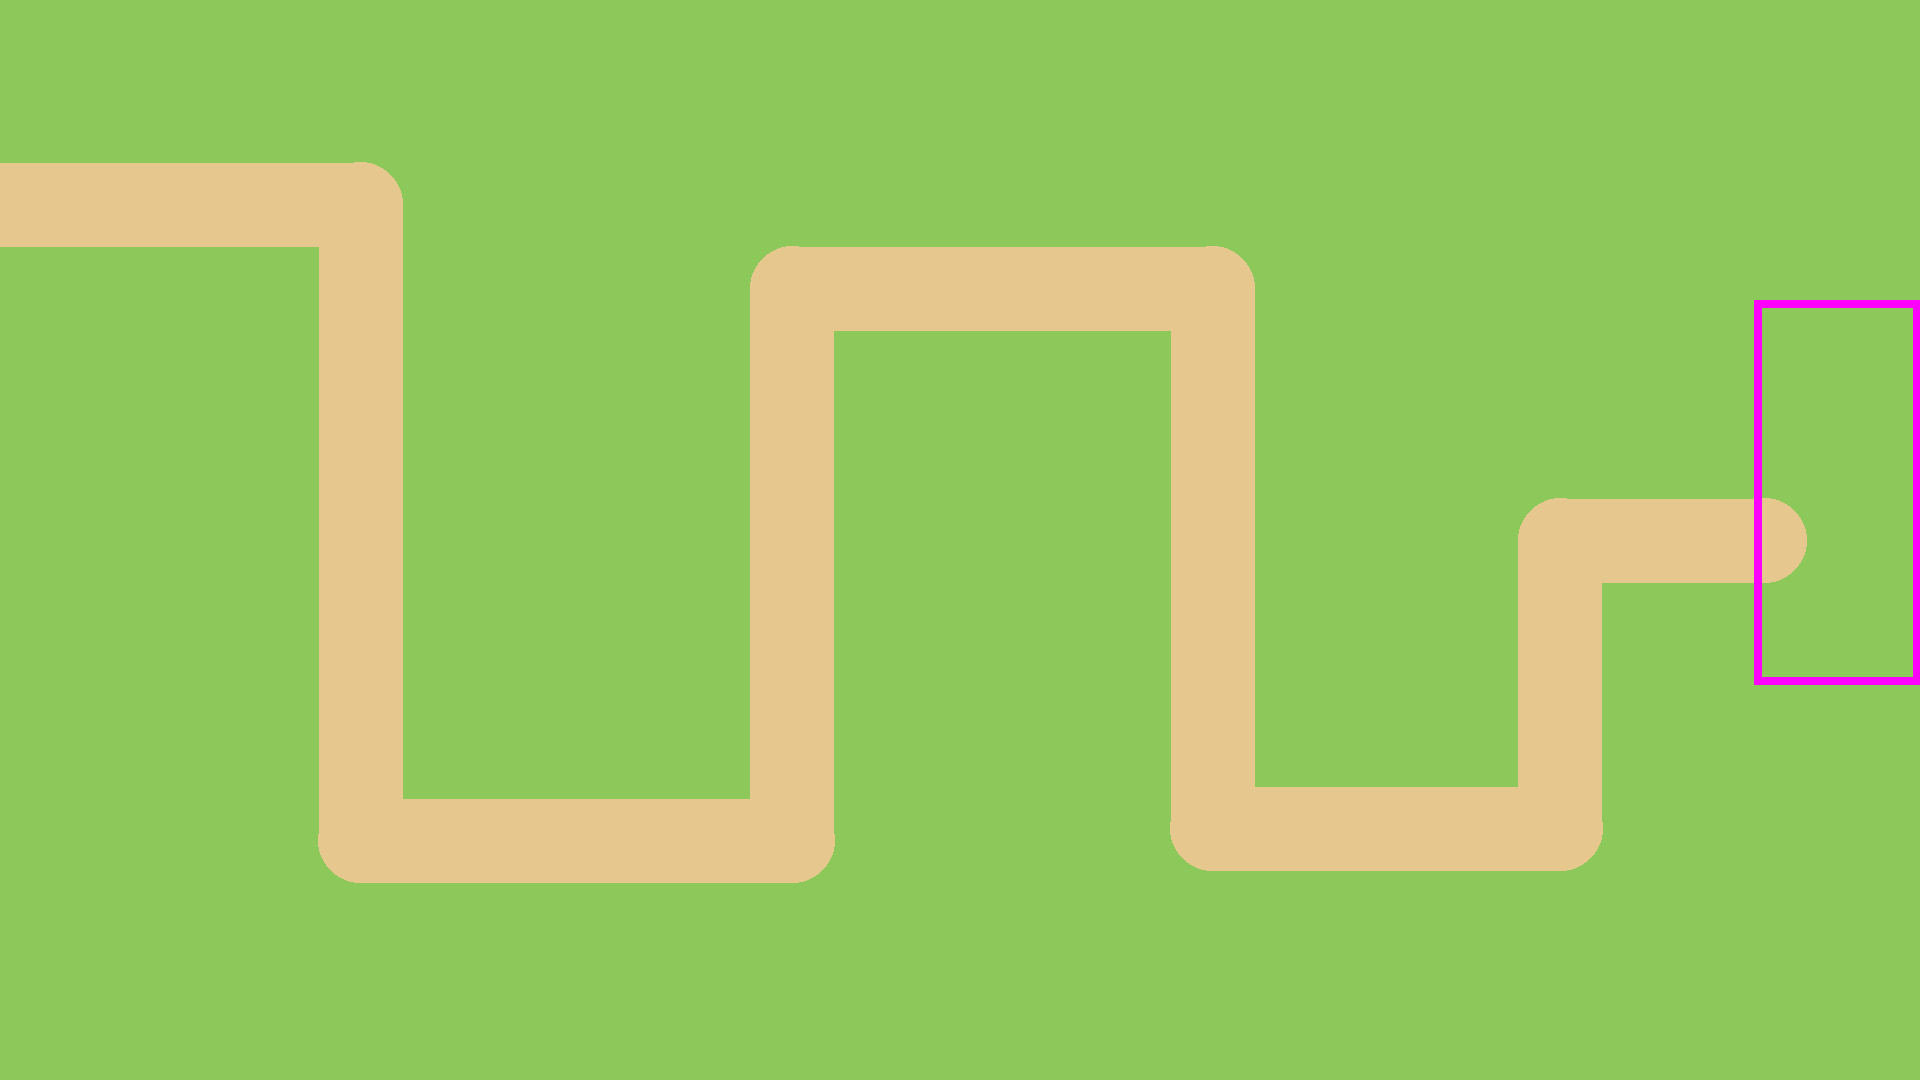
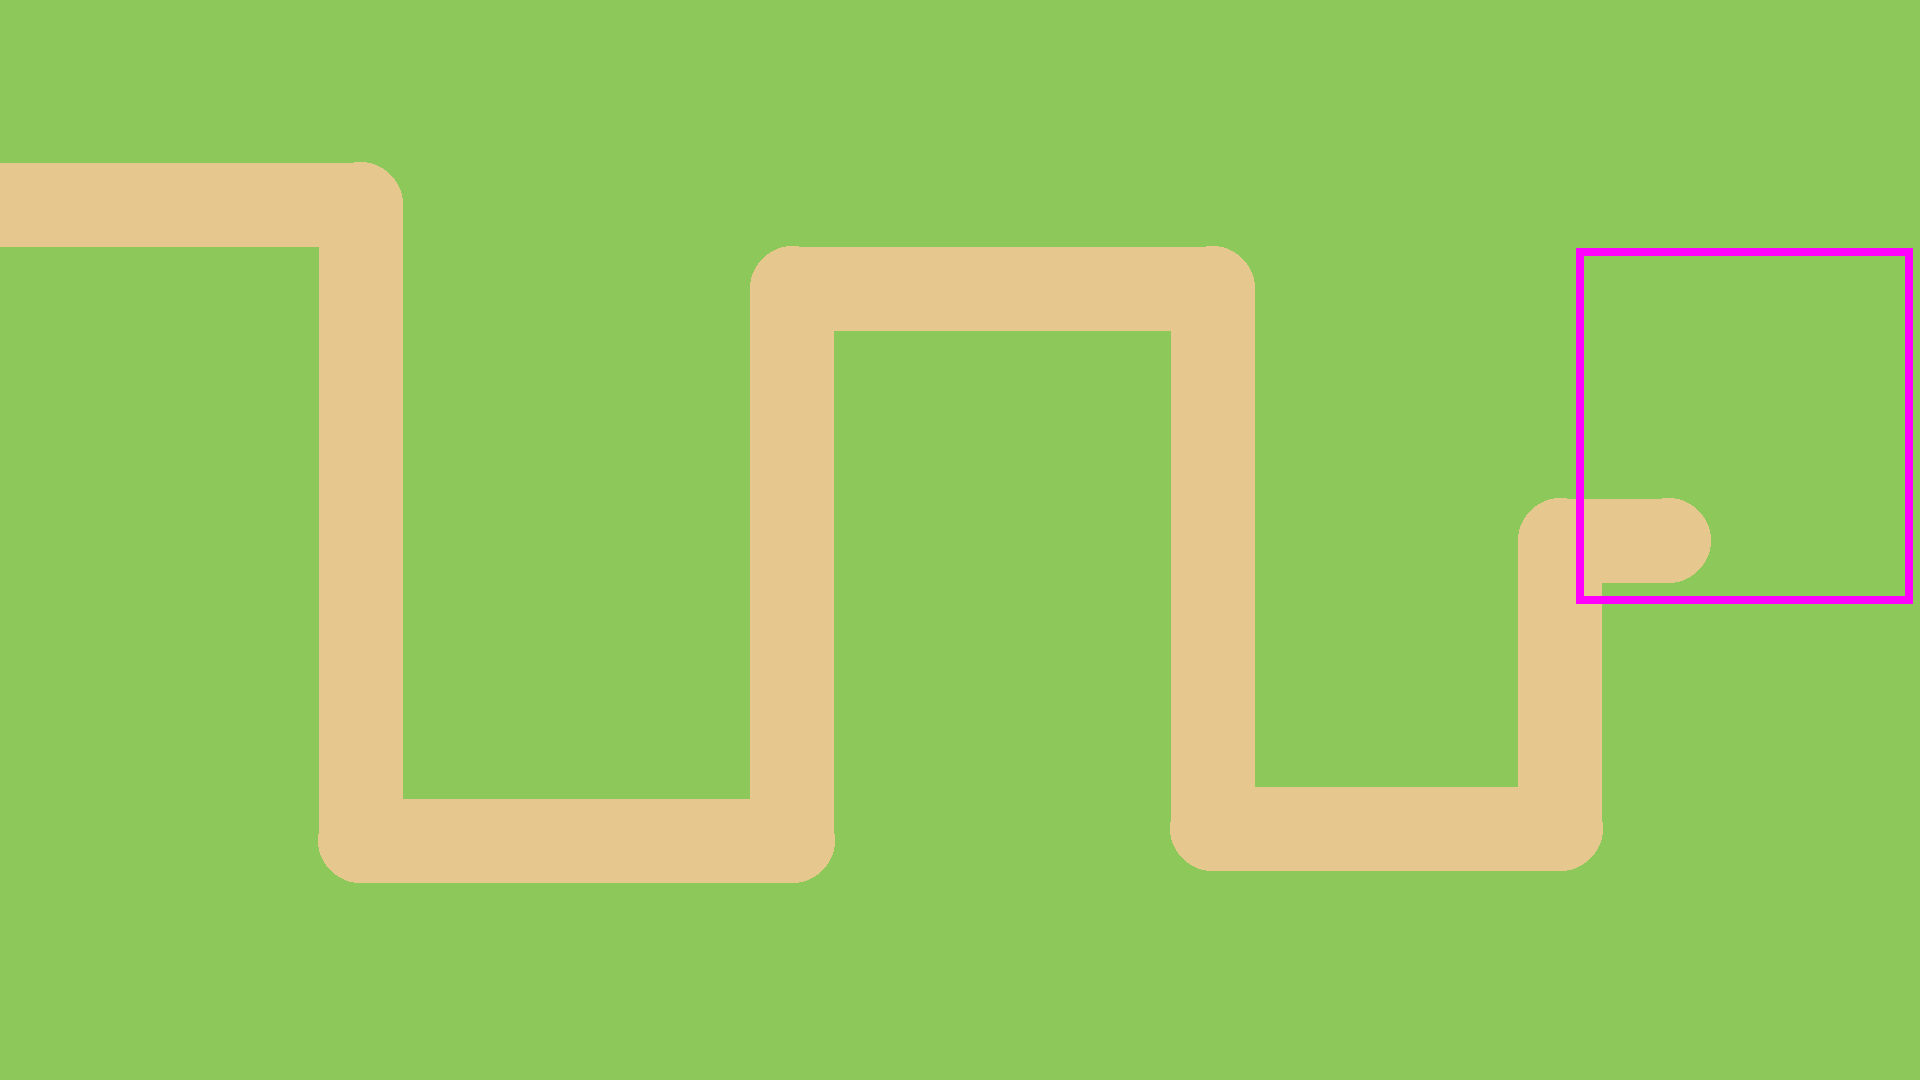
Gardiens de Lili : premières images Gemini (château, princesse Lili, Braisou, Gouttine, Feuillou)
Détourage chroma et découpage des planches, château au bout du chemin,
images guides des maps recalées sur la nouvelle position du château.

Claude-Session: https://claude.ai/code/session_015NWGEH5BKdR9UnsrjRskAd

Changed region(s): [[0.8125, 0.2139, 1.0, 0.6417]]

diff --git a/gardiens/index.html b/gardiens/index.html
@@ -189,6 +189,9 @@ const BOSS_GIFT={'1-20':'plumo','1-40':'rocaillou','2-20':'etoilette','2-40':'lu
 const BENCH_ORDER=['braisou','gouttine','feuillou','sousou','zapic','givrou','plumo','rocaillou','etoilette','lunette'];
 function giftOf(gid){for(const k in BOSS_GIFT)if(BOSS_GIFT[k]===gid){const[w,v]=k.split('-');return{world:+w,wave:+v};}return null;}
 const FORMS=['','bébé','grand','super'];
+// Gardiens qui ont déjà leurs images (img/g/<id>-<forme>.webp) ; les autres restent en ronds de couleur
+const ART={braisou:1,gouttine:1,feuillou:1};
+function gImg(gid,form){return ART[gid]?img('g/'+gid+'-'+form):null;}
 
 // ---------- Les méchants ----------
 const FOES={
@@ -205,11 +208,11 @@ const INTRO={chipeur:[1,1,4],fusee:[1,3,2],costaud:[1,6,1.5],casque:[2,2,2],vola
 // ---------- Les mondes ----------
 const WORLDS=[
   {id:1,name:'La Prairie fleurie',em:'🌸',theme:'prairie',boss:{name:'La Grosse Taupe Grognon',em:'🦫',col:'#8B6B4A'},
-   path:[[-40,170],[300,170],[300,700],[660,700],[660,240],[1010,240],[1010,690],[1300,690],[1300,450],[1470,450]]},
+   path:[[-40,170],[300,170],[300,700],[660,700],[660,240],[1010,240],[1010,690],[1300,690],[1300,450],[1390,450]]},
   {id:2,name:'La Forêt enneigée',em:'❄',theme:'neige',boss:{name:'Le Yéti Ronchon',em:'🦍',col:'#DDE8F5'},
-   path:[[220,-40],[220,400],[560,400],[560,130],[900,130],[900,570],[420,570],[420,790],[1180,790],[1180,330],[1470,330]]},
+   path:[[220,-40],[220,400],[560,400],[560,130],[900,130],[900,570],[420,570],[420,790],[1180,790],[1180,330],[1390,330]]},
   {id:3,name:'Le Volcan',em:'🌋',theme:'volcan',boss:{name:'Le Dragon de Grognon',em:'🐉',col:'#D2452F'},
-   path:[[-40,770],[340,770],[340,200],[740,200],[740,650],[1090,650],[1090,170],[1340,170],[1340,560],[1470,560]]}
+   path:[[-40,770],[340,770],[340,200],[740,200],[740,650],[1090,650],[1090,170],[1240,170],[1240,560],[1390,560]]}
 ];
 const MINIBOSS={name:'Chef des Chipeurs',em:'😤',col:'#B0306A'};
 
@@ -243,11 +246,11 @@ function distSeg(px,py,s){
 }
 function distPath(p,x,y){let m=1e9;for(const s of p.segs)m=Math.min(m,distSeg(x,y,s));return m;}
 // Emplacements des gardiens : calculés automatiquement le long du chemin
-function genSpots(p){
+function genSpots(p,castle){
   const samples=[];for(let d=0;d<p.len;d+=20){const q=posAt(p,d);if(q.x>0&&q.y>0&&q.x<W&&q.y<H)samples.push(q);}
   const cands=[];
   for(let x=70;x<=1400;x+=25)for(let y=70;y<=H-70;y+=25){
-    const dp=distPath(p,x,y);if(dp<74||dp>118)continue;
+    const dp=distPath(p,x,y);if(dp<74||dp>118||inCastle(castle,x,y,36))continue;
     let sc=0;for(const q of samples)if(Math.hypot(q.x-x,q.y-y)<165)sc++;
     cands.push({x,y,sc});
   }
@@ -256,7 +259,11 @@ function genSpots(p){
   for(const c of cands){if(spots.length>=14)break;if(spots.every(s=>Math.hypot(s.x-c.x,s.y-c.y)>=140))spots.push({x:c.x,y:c.y});}
   return spots;
 }
-WORLDS.forEach(w=>{w.P=buildPath(w.path);w.spots=genSpots(w.P);const e=w.path[w.path.length-1];w.castle={x:e[0],y:e[1]};});
+// Château (image de Gemini) : la porte (27 % de la largeur, 82 % de la hauteur) est au bout du chemin
+const CASTLE={w:280,h:296,gx:0.272,gy:0.82};
+function castleRect(c){return{x:c.x-CASTLE.w*CASTLE.gx,y:c.y-CASTLE.h*CASTLE.gy,w:CASTLE.w,h:CASTLE.h};}
+function inCastle(c,x,y,m){const r=castleRect(c);return x>r.x-m&&x<r.x+r.w+m&&y>r.y-m&&y<r.y+r.h+m;}
+WORLDS.forEach(w=>{const e=w.path[w.path.length-1];w.castle={x:e[0],y:e[1]};w.P=buildPath(w.path);w.spots=genSpots(w.P,w.castle);});
 
 // ---------- Joueurs et sauvegarde ----------
 const PKEY='gardiens-profiles';
@@ -329,7 +336,7 @@ function startWave(){
   if(G.state!=='idle')return;
   if(!G.towers.length){tip('lili-explique','Place d\'abord un gardien : touche un cercle ➕ près du chemin !',5000);return;}
   G.queue=makeWave(G.world,G.wave);G.t=0;G.state='wave';G.lostHeart=false;
-  if(G.wave%10===0)tip(G.wave===CFG.WAVES?'livia-mission':'lili-mission',G.wave===CFG.WAVES?`Attention ! ${WORLDS[G.world-1].boss.name} arrive ! C'est la dernière vague !`:'Attention, le Chef des Chipeurs arrive avec cette vague !',5000);
+  if(G.wave%10===0)tip('princesse-inquiete',G.wave===CFG.WAVES?`Attention ! ${WORLDS[G.world-1].boss.name} arrive ! C'est la dernière vague !`:'Attention, le Chef des Chipeurs arrive avec cette vague !',5000);
   hideTipSoon();refreshHUD();
 }
 function spawn(s){
@@ -369,7 +376,7 @@ function worldWon(){
   openModal(`<h2>🎉 Bravo ! Le château est sauvé !</h2>
     <p>Tu as réussi les ${CFG.WAVES} vagues de <b>${WORLDS[n-1].name}</b> et chassé ${esc(WORLDS[n-1].boss.name)} !</p>
     ${next?`<p>Un nouveau monde t'attend : <b>${next.em} ${next.name}</b>. Tes gardiens gardent toutes leurs améliorations.</p>`:`<p>Tu as fini les trois mondes : tu fais partie des <b>Grands Gardiens</b> du château ! La princesse Lili te dit merci !</p>`}
-    <div class="right">${next?`<button class="b-pink" onclick="closeModal();enterWorld(${n+1})">${next.em} En route !</button>`:''}<button onclick="showWorlds()">🗺 Les mondes</button></div>`,'duo-victoire');
+    <div class="right">${next?`<button class="b-pink" onclick="closeModal();enterWorld(${n+1})">${next.em} En route !</button>`:''}<button onclick="showWorlds()">🗺 Les mondes</button></div>`,'princesse-victoire');
 }
 function defeat(){
   G.state='over';const cp=P.worlds[G.world].cp;
@@ -377,7 +384,7 @@ function defeat(){
   openModal(`<h2>Oh non ! Les Chipeurs sont entrés…</h2>
     <p>Ils ont chipé le goûter de la princesse Lili ! Mais pas de panique : <b>tes gardiens gardent toutes leurs améliorations</b> et tes LiliDollars.</p>
     <p>Améliore-les un peu, puis on recommence à la <b>vague ${cp}</b>.</p>
-    <div class="right"><button onclick="showTeam()">🛡 Équipe</button><button class="b-pink" onclick="closeModal();resetField();refreshHUD()">🔄 On recommence !</button></div>`,'duo-oups');
+    <div class="right"><button onclick="showTeam()">🛡 Équipe</button><button class="b-pink" onclick="closeModal();resetField();refreshHUD()">🔄 On recommence !</button></div>`,'princesse-inquiete');
 }
 
 // ---------- Nouveaux gardiens : boutique et boss ----------
@@ -426,6 +433,7 @@ function renderBench(){
 }
 function gIcon(gid,size,form){
   const g=GUARD[gid];form=form||formOf(level(gid));const s=size*(0.8+0.12*form);
+  if(ART[gid])return `<span class="gico" style="width:${s}px;height:${s}px;background:radial-gradient(circle,#fff 55%,${g.col}55);border-color:${g.col}"><img src="img/g/${gid}-${form}.webp" alt="" style="width:88%;height:88%;object-fit:contain"></span>`;
   return `<span class="gico" style="width:${s}px;height:${s}px;background:${g.col};font-size:${s*0.5}px">${g.em}</span>`;
 }
 function gCard(gid,onclick){
@@ -526,7 +534,7 @@ function showWho(){
   PROFILES=LS.get(PKEY)||[];
   const list=PROFILES.map(p=>`<div class="pl"><button class="go" onclick="selectProfile('${p.id}')">${p.av} ${esc(p.name)}</button><button onclick="delProfile('${p.id}')" title="Supprimer">🗑</button></div>`).join('');
   openModal(`<h2>🏰 Les Gardiens de Lili</h2><p><b>Qui joue ?</b></p>
-    <div class="who">${list}<button class="b-pink" onclick="newProfile()">➕ Nouveau joueur</button></div>`,'duo-equipe',true);
+    <div class="who">${list}<button class="b-pink" onclick="newProfile()">➕ Nouveau joueur</button></div>`,'princesse-contente',true);
 }
 let NP={av:AVATARS[0],diff:2};
 function newProfile(){
@@ -649,7 +657,7 @@ function update(dt){
     const p=posAt(path,e.dist);e.x=p.x;e.y=p.y;e.seen=seenBy(e);
     if(e.dist>=path.len){
       e.hp=0;e.out=true;G.hearts=Math.max(0,G.hearts-e.hearts);
-      addText(wd.castle.x+60,wd.castle.y-120,'-'+e.hearts+' ❤','#E0245E',26);refreshHUD();
+      addText(wd.castle.x+60,wd.castle.y-160,'-'+e.hearts+' ❤','#E0245E',26);refreshHUD();
       tipOnce('hurt','lili-pas-contente','Oh non, un Chipeur est entré dans le château ! Améliore tes gardiens ou ajoute-en un sur le chemin.');
     }
   }
@@ -731,7 +739,7 @@ function buildBg(){
   c.width=cv.width;c.height=cv.height;const x=c.getContext('2d');x.scale(K,K);
   const gr=x.createLinearGradient(0,0,0,H);gr.addColorStop(0,th.bg1);gr.addColorStop(1,th.bg2);x.fillStyle=gr;x.fillRect(0,0,W,H);
   const R=rng(wd.id*77);
-  const free=(px,py,m)=>distPath(wd.P,px,py)>m&&wd.spots.every(s=>Math.hypot(s.x-px,s.y-py)>46)&&!(px>1420&&Math.abs(py-wd.castle.y)<200);
+  const free=(px,py,m)=>distPath(wd.P,px,py)>m&&wd.spots.every(s=>Math.hypot(s.x-px,s.y-py)>46)&&!inCastle(wd.castle,px,py,10);
   // décor
   for(let i=0;i<900;i++){
     const px=R()*W,py=R()*H;if(!free(px,py,46))continue;const k=R();
@@ -759,43 +767,32 @@ function buildBg(){
   // entrée des Chipeurs
   const s0=wd.path[0],s1=wd.path[1],ex=Math.max(30,Math.min(W-30,s0[0]+(s1[0]-s0[0])*0.06)),ey=Math.max(30,Math.min(H-30,s0[1]+(s1[1]-s0[1])*0.06));
   x.font='800 22px "Baloo 2",sans-serif';x.textAlign='center';x.fillStyle='rgba(60,20,60,.8)';x.fillText('Chipeurs ➜',ex+(s1[0]>s0[0]?60:0),ey+(s1[1]>s0[1]?60:-46));
-  castle(x,wd.castle.x,wd.castle.y);
   BG=c;
 }
 function tree(x,px,py,c1,c2){x.fillStyle='#7A5230';x.fillRect(px-4,py,8,16);x.fillStyle=c2;x.beginPath();x.arc(px,py-6,20,0,7);x.fill();x.fillStyle=c1;x.beginPath();x.arc(px-5,py-11,14,0,7);x.fill();}
 function pine(x,px,py){x.fillStyle='#6B4A30';x.fillRect(px-3,py+8,6,10);x.fillStyle='#2F6B4A';for(let i=0;i<3;i++){x.beginPath();x.moveTo(px,py-30+i*12);x.lineTo(px+16-i*2,py-6+i*12);x.lineTo(px-16+i*2,py-6+i*12);x.fill();}x.fillStyle='#fff';x.beginPath();x.moveTo(px,py-30);x.lineTo(px+6,py-20);x.lineTo(px-6,py-20);x.fill();}
-function castle(x,cx,cy){
-  const L=cx-12,T=cy-120;
-  x.fillStyle='rgba(0,0,0,.15)';x.beginPath();x.ellipse(1530,cy+82,90,18,0,0,7);x.fill();
-  x.fillStyle='#F7C3DA';x.strokeStyle='#B5527F';x.lineWidth=4;
-  x.fillRect(L,cy-70,W-L+10,150);x.strokeRect(L,cy-70,W-L+10,150);
-  for(let i=L;i<W;i+=22){x.fillRect(i,cy-86,12,18);x.strokeRect(i,cy-86,12,18);}
-  [[L+4,48],[1560,48]].forEach(([tx,w])=>{x.fillStyle='#F7C3DA';x.fillRect(tx,T-40,w,200);x.strokeRect(tx,T-40,w,200);
-    x.fillStyle='#8A5BD6';x.beginPath();x.moveTo(tx-8,T-40);x.lineTo(tx+w/2,T-110);x.lineTo(tx+w+8,T-40);x.closePath();x.fill();x.stroke();
-    x.strokeStyle='#B5527F';x.beginPath();x.moveTo(tx+w/2,T-110);x.lineTo(tx+w/2,T-140);x.stroke();x.fillStyle='#FF5FA2';x.beginPath();x.moveTo(tx+w/2,T-140);x.lineTo(tx+w/2+24,T-132);x.lineTo(tx+w/2,T-124);x.fill();x.strokeStyle='#B5527F';});
-  x.fillStyle='#FBD9E8';x.fillRect(1490,T-10,56,100);x.strokeRect(1490,T-10,56,100);
-  x.fillStyle='#8A5BD6';x.beginPath();x.moveTo(1482,T-10);x.lineTo(1518,T-70);x.lineTo(1554,T-10);x.closePath();x.fill();x.stroke();
-  x.fillStyle='#5A2D4A';x.beginPath();x.moveTo(L-2,cy+80);x.lineTo(L-2,cy-26);x.arc(L+24,cy-26,26,Math.PI,0);x.lineTo(L+50,cy+80);x.fill();
-  x.fillStyle='#FFE6A8';[[1510,T+30],[1585,cy-20],[L+28,T+20]].forEach(([wx,wy])=>{x.beginPath();x.arc(wx,wy,8,Math.PI,0);x.rect(wx-8,wy,16,14);x.fill();});
-}
 function drawCastleLife(wd){
-  const cy=wd.castle.y,T=cy-120,bob=Math.sin(G.anim*2)*3;
-  ctx.font='46px serif';ctx.textAlign='center';ctx.textBaseline='middle';ctx.fillText('👸',1518,T+30+bob);
-  const e=img('lili-coucou'),l=img('livia-idee');
-  if(e.complete&&e.naturalWidth)ctx.drawImage(e,1452,cy-150+Math.sin(G.anim*2.4)*2,48,55);
-  if(l.complete&&l.naturalWidth)ctx.drawImage(l,1548,cy-152+Math.sin(G.anim*2.1+1)*2,46,55);
-  ctx.font='800 24px "Baloo 2",sans-serif';ctx.fillStyle='#fff';ctx.strokeStyle='#B5527F';ctx.lineWidth=6;
-  const t=`❤ ${G.hearts}`;ctx.strokeText(t,1530,cy+108);ctx.fillText(t,1530,cy+108);
+  const c=wd.castle,im=img('chateau'),r=castleRect(c);
+  ctx.fillStyle='rgba(0,0,0,.18)';ctx.beginPath();ctx.ellipse(r.x+r.w*0.52,r.y+r.h*0.93,r.w*0.48,r.h*0.09,0,0,7);ctx.fill();
+  if(im.complete&&im.naturalWidth)ctx.drawImage(im,r.x,r.y,r.w,r.h);
+  else{ctx.font='120px serif';ctx.textAlign='center';ctx.textBaseline='middle';ctx.fillText('🏰',r.x+r.w/2,r.y+r.h/2);}
+  ctx.font='800 24px "Baloo 2",sans-serif';ctx.textAlign='center';ctx.fillStyle='#fff';ctx.strokeStyle='#B5527F';ctx.lineWidth=6;
+  const t=`❤ ${G.hearts}`,ty=Math.min(H-14,r.y+r.h+16);ctx.strokeText(t,r.x+r.w*0.55,ty);ctx.fillText(t,r.x+r.w*0.55,ty);
 }
 function drawGuard(t,sel){
   if(DR&&DR.active&&DR.gid===t.gid)ctx.globalAlpha=0.35;
   const g=GUARD[t.gid],s=stats(t.gid),r=22+6*s.form,b=Math.sin(t.anim*3)*2,k=t.kick*0.12;
   if(sel&&g.kind!=='coin'){ctx.fillStyle='rgba(255,255,255,.18)';ctx.strokeStyle='rgba(255,255,255,.85)';ctx.lineWidth=3;ctx.setLineDash([10,8]);ctx.beginPath();ctx.arc(t.x,t.y,s.rg,0,7);ctx.fill();ctx.stroke();ctx.setLineDash([]);}
   ctx.fillStyle='rgba(0,0,0,.2)';ctx.beginPath();ctx.ellipse(t.x,t.y+r*0.8,r*0.9,r*0.3,0,0,7);ctx.fill();
+  const im=gImg(t.gid,s.form);
+  if(im&&im.complete&&im.naturalWidth){
+    const hh=[0,74,90,106][s.form],ww=hh*im.naturalWidth/im.naturalHeight,base=t.y+r*0.8;
+    ctx.save();ctx.translate(t.x,base);ctx.scale(1+k,1-k);ctx.drawImage(im,-ww/2,-hh+b,ww,hh);ctx.restore();
+  }else{
   ctx.save();ctx.translate(t.x,t.y+b);ctx.scale(1+k,1-k);
   ctx.fillStyle=g.col;ctx.strokeStyle='#fff';ctx.lineWidth=4+s.form;ctx.beginPath();ctx.arc(0,0,r,0,7);ctx.fill();ctx.stroke();
   ctx.font=`${r*1.05}px serif`;ctx.textAlign='center';ctx.textBaseline='middle';ctx.fillText(g.em,0,2);
-  ctx.restore();
+  ctx.restore();}
   ctx.font='800 15px "Baloo 2",sans-serif';ctx.fillStyle='#fff';ctx.strokeStyle='rgba(42,31,61,.8)';ctx.lineWidth=4;
   const lab='★'.repeat(s.form)+' '+s.lv;ctx.strokeText(lab,t.x,t.y+r+14);ctx.fillText(lab,t.x,t.y+r+14);ctx.globalAlpha=1;
 }

diff --git a/gardiens/sw.js b/gardiens/sw.js
@@ -1,6 +1,6 @@
 /* Les Gardiens de Lili : fonctionne même sans connexion. Change VERSION à chaque mise à jour du jeu. */
-const VERSION='gardiens-v3';
-const SHELL=['./','index.html','manifest.webmanifest','icon-192.png','icon-512.png','apple-touch-icon.png','img/duo-equipe.webp','img/duo-oups.webp','img/duo-victoire.webp','img/lili-contente.webp','img/lili-coucou.webp','img/lili-explique.webp','img/lili-idee.webp','img/lili-mission.webp','img/lili-pas-contente.webp','img/livia-idee.webp','img/livia-mission.webp','img/livia-pensive.webp'];
+const VERSION='gardiens-v4';
+const SHELL=['./','index.html','manifest.webmanifest','icon-192.png','icon-512.png','apple-touch-icon.png','img/chateau.webp','img/duo-equipe.webp','img/duo-oups.webp','img/duo-victoire.webp','img/g/braisou-1.webp','img/g/braisou-2.webp','img/g/braisou-3.webp','img/g/feuillou-1.webp','img/g/feuillou-2.webp','img/g/feuillou-3.webp','img/g/gouttine-1.webp','img/g/gouttine-2.webp','img/g/gouttine-3.webp','img/lili-contente.webp','img/lili-coucou.webp','img/lili-explique.webp','img/lili-idee.webp','img/lili-mission.webp','img/lili-pas-contente.webp','img/livia-idee.webp','img/livia-mission.webp','img/livia-pensive.webp','img/princesse-contente.webp','img/princesse-inquiete.webp','img/princesse-victoire.webp'];
 self.addEventListener('install',e=>{e.waitUntil(caches.open(VERSION).then(c=>c.addAll(SHELL)).then(()=>self.skipWaiting()));});
 self.addEventListener('activate',e=>{e.waitUntil(caches.keys().then(ks=>Promise.all(ks.filter(k=>k.startsWith('gardiens-')&&k!==VERSION).map(k=>caches.delete(k)))).then(()=>self.clients.claim()));});
 self.addEventListener('fetch',e=>{
